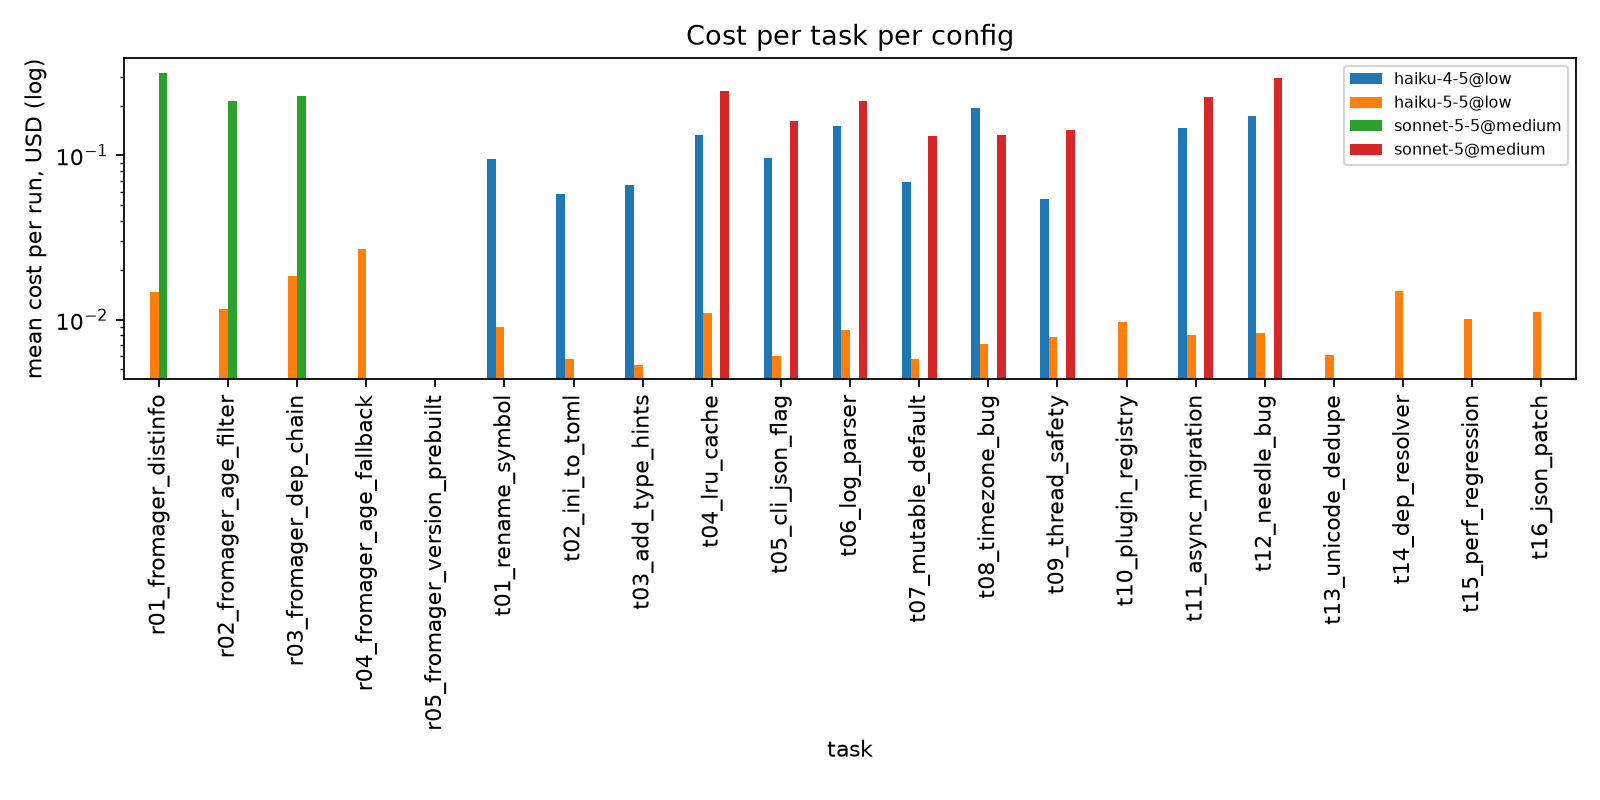
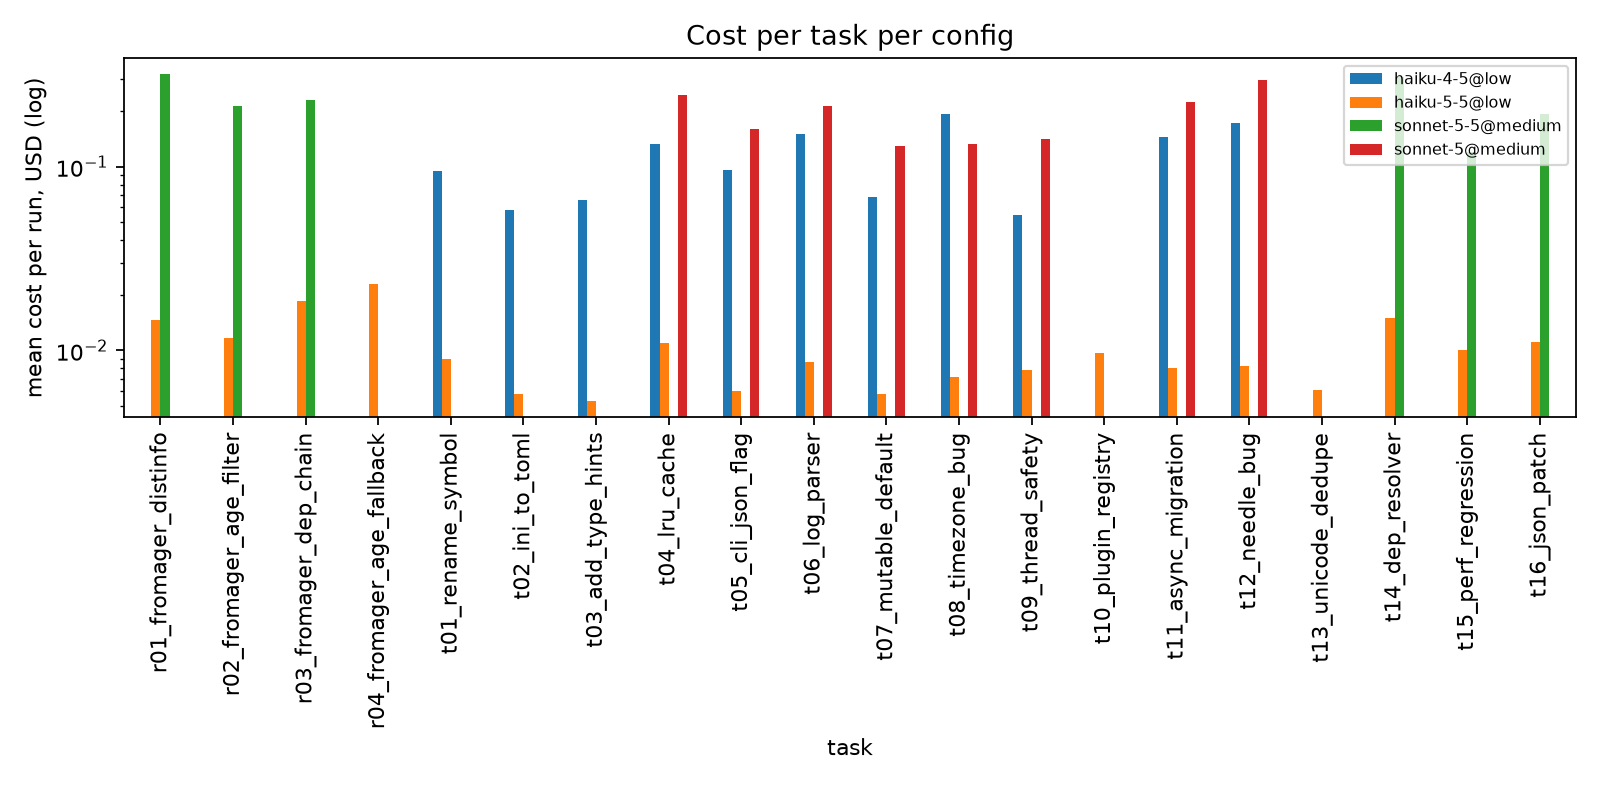
r04: only exact pins bypass the age filter, as the PR tests require

diff --git a/results/pilot-claude/report/summary.md b/results/pilot-claude/report/summary.md
@@ -1,6 +1,6 @@
 # Results
 
-43 runs, 21 tasks, 4 configs
+45 runs, 20 tasks, 4 configs
 
 ## Pass rate and mean cost per config, by tier
 
@@ -34,12 +34,14 @@
 | haiku-5-5@low | 100% | $0.011 | 40 | 4 |
 | haiku-4-5@low | 100% | $0.146 | 68 | 1 |
 | sonnet-5@medium | 100% | $0.225 | 47 | 1 |
+| sonnet-5-5@medium | 100% | $0.252 | 186 | 2 |
 
 ### Tier 5: Long context
 
 | config | pass rate | mean cost | mean wall s | n |
 |---|---|---|---|---|
 | haiku-5-5@low | 100% | $0.009 | 28 | 2 |
+| sonnet-5-5@medium | 100% | $0.120 | 24 | 1 |
 | haiku-4-5@low | 100% | $0.172 | 88 | 1 |
 | sonnet-5@medium | 100% | $0.295 | 73 | 1 |
 
@@ -47,7 +49,7 @@
 
 | config | pass rate | mean cost | mean wall s | n |
 |---|---|---|---|---|
-| haiku-5-5@low | 60% | $0.014 | 45 | 5 |
+| haiku-5-5@low | 75% | $0.017 | 48 | 4 |
 | sonnet-5-5@medium | 100% | $0.254 | 50 | 3 |
 
 ## Cheapest config that passed every repetition, per task
@@ -58,7 +60,6 @@
 | r02_fromager_age_filter | 6 | haiku-5-5@low | $0.012 | sonnet-5-5@medium | $0.214 | 95% |
 | r03_fromager_dep_chain | 6 | haiku-5-5@low | $0.019 | sonnet-5-5@medium | $0.230 | 92% |
 | r04_fromager_age_fallback | 6 | none passed | | | | |
-| r05_fromager_version_prebuilt | 6 | none passed | | | | |
 | t01_rename_symbol | 1 | haiku-5-5@low | $0.009 | haiku-4-5@low | $0.095 | 91% |
 | t02_ini_to_toml | 1 | haiku-5-5@low | $0.006 | haiku-4-5@low | $0.058 | 90% |
 | t03_add_type_hints | 1 | haiku-5-5@low | $0.005 | haiku-4-5@low | $0.066 | 92% |
@@ -72,11 +73,11 @@
 | t11_async_migration | 4 | haiku-5-5@low | $0.008 | sonnet-5@medium | $0.225 | 96% |
 | t12_needle_bug | 5 | haiku-5-5@low | $0.008 | sonnet-5@medium | $0.295 | 97% |
 | t13_unicode_dedupe | 3 | haiku-5-5@low | $0.006 | haiku-5-5@low | $0.006 | 0% |
-| t14_dep_resolver | 4 | haiku-5-5@low | $0.015 | haiku-5-5@low | $0.015 | 0% |
-| t15_perf_regression | 5 | haiku-5-5@low | $0.010 | haiku-5-5@low | $0.010 | 0% |
-| t16_json_patch | 4 | haiku-5-5@low | $0.011 | haiku-5-5@low | $0.011 | 0% |
+| t14_dep_resolver | 4 | haiku-5-5@low | $0.015 | sonnet-5-5@medium | $0.309 | 95% |
+| t15_perf_regression | 5 | haiku-5-5@low | $0.010 | sonnet-5-5@medium | $0.120 | 92% |
+| t16_json_patch | 4 | haiku-5-5@low | $0.011 | sonnet-5-5@medium | $0.194 | 94% |
 
 ## Routing scenario
 
-Everything on `sonnet-5-5@medium`: $0.76 for 100% pass rate (3 runs).
+Everything on `sonnet-5-5@medium`: $1.38 for 100% pass rate (6 runs).
 Routed per tier to the cheapest fully-passing config: $0.18 for 19 passing tasks.

diff --git a/tasks/r04_fromager_age_fallback/prompt.md b/tasks/r04_fromager_age_fallback/prompt.md
@@ -24,9 +24,11 @@ Implement the following change to the resolver's max-release-age handling
    foo) its newest version is built instead of failing, which avoids cascading failures
    in the dependent package.
 
-2. Packages that have an explicit constraint (the provider's `constraints` object returns
-   a constraint for the requirement name) skip age filtering entirely. A constraint is
-   explicit user intent and must not be overridden by the age heuristic. Log at INFO on the
+2. Packages whose constraint pins an exact version (the provider's `constraints` object
+   returns a constraint for the requirement name and that constraint is a single `==`
+   specifier) skip age filtering entirely. A pin is explicit user intent and must not be
+   overridden by the age heuristic. Range constraints (`>=`, `<`, `!=`, ...) are still
+   age-filtered like unconstrained packages. Log at INFO on the
    `fromager.resolver` logger: `"%s: skipping age filter for pinned constraint (%d candidate(s))"`.
    Previously, in multi-version mode a constrained package pinned to a version older than
    the window lost every candidate and resolution failed silently; in single-version mode
